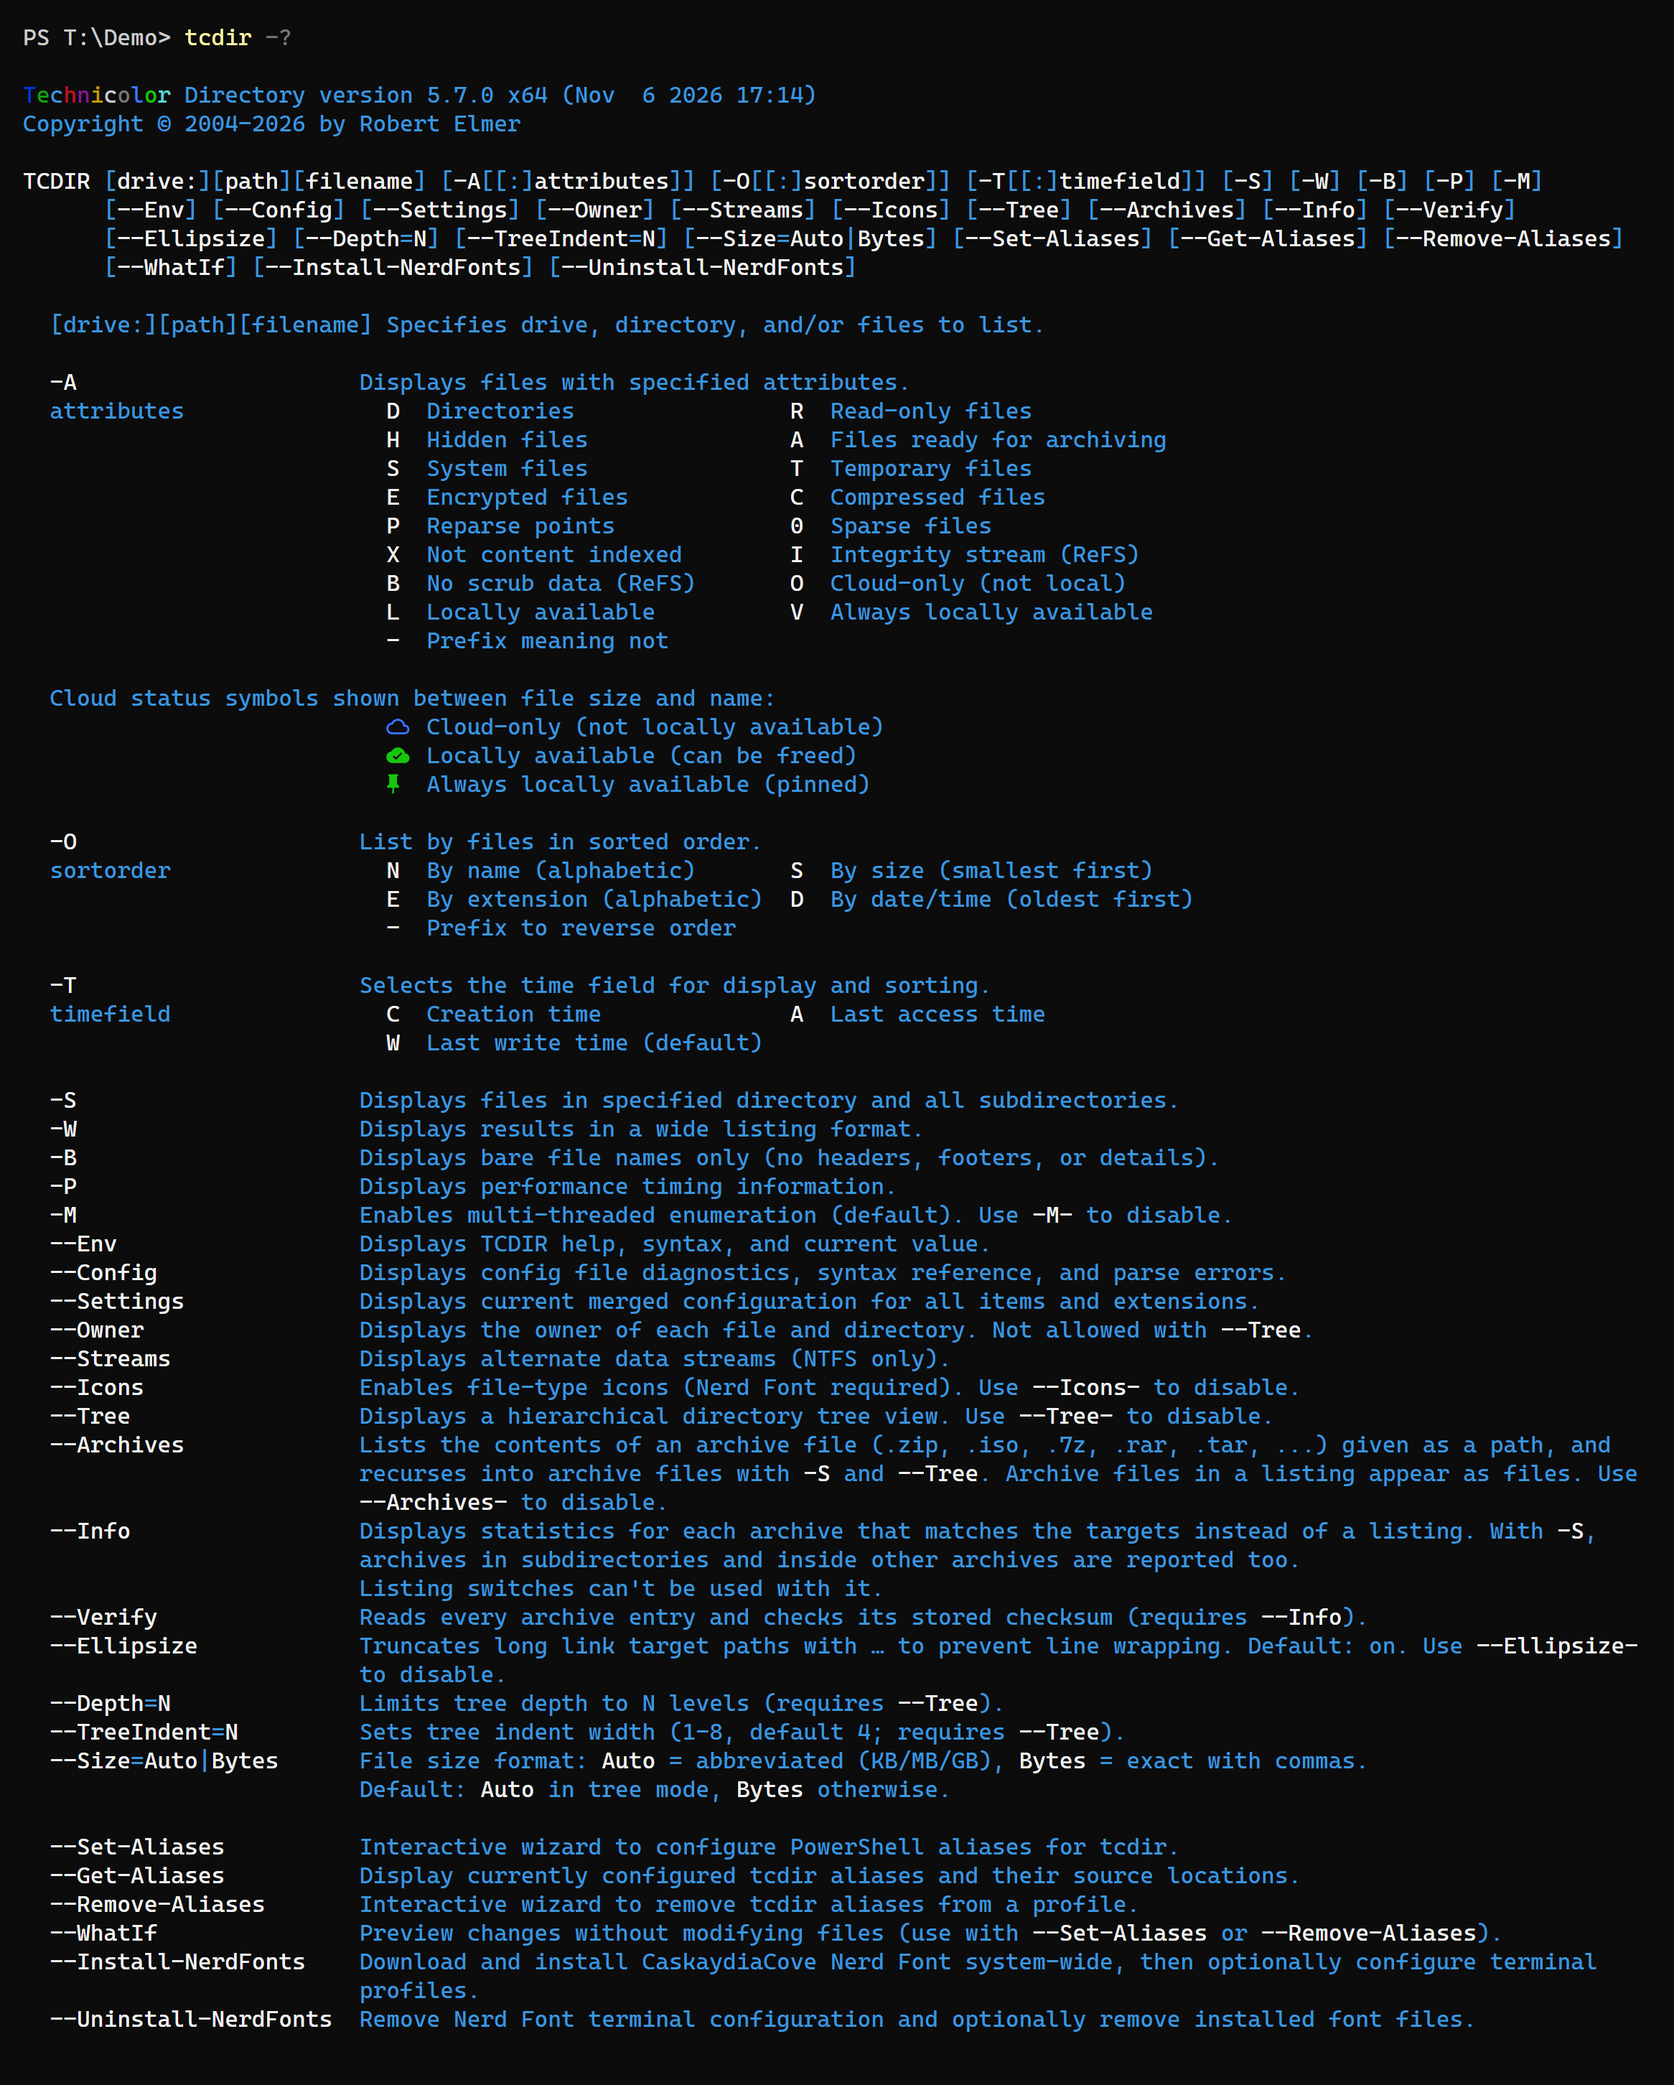
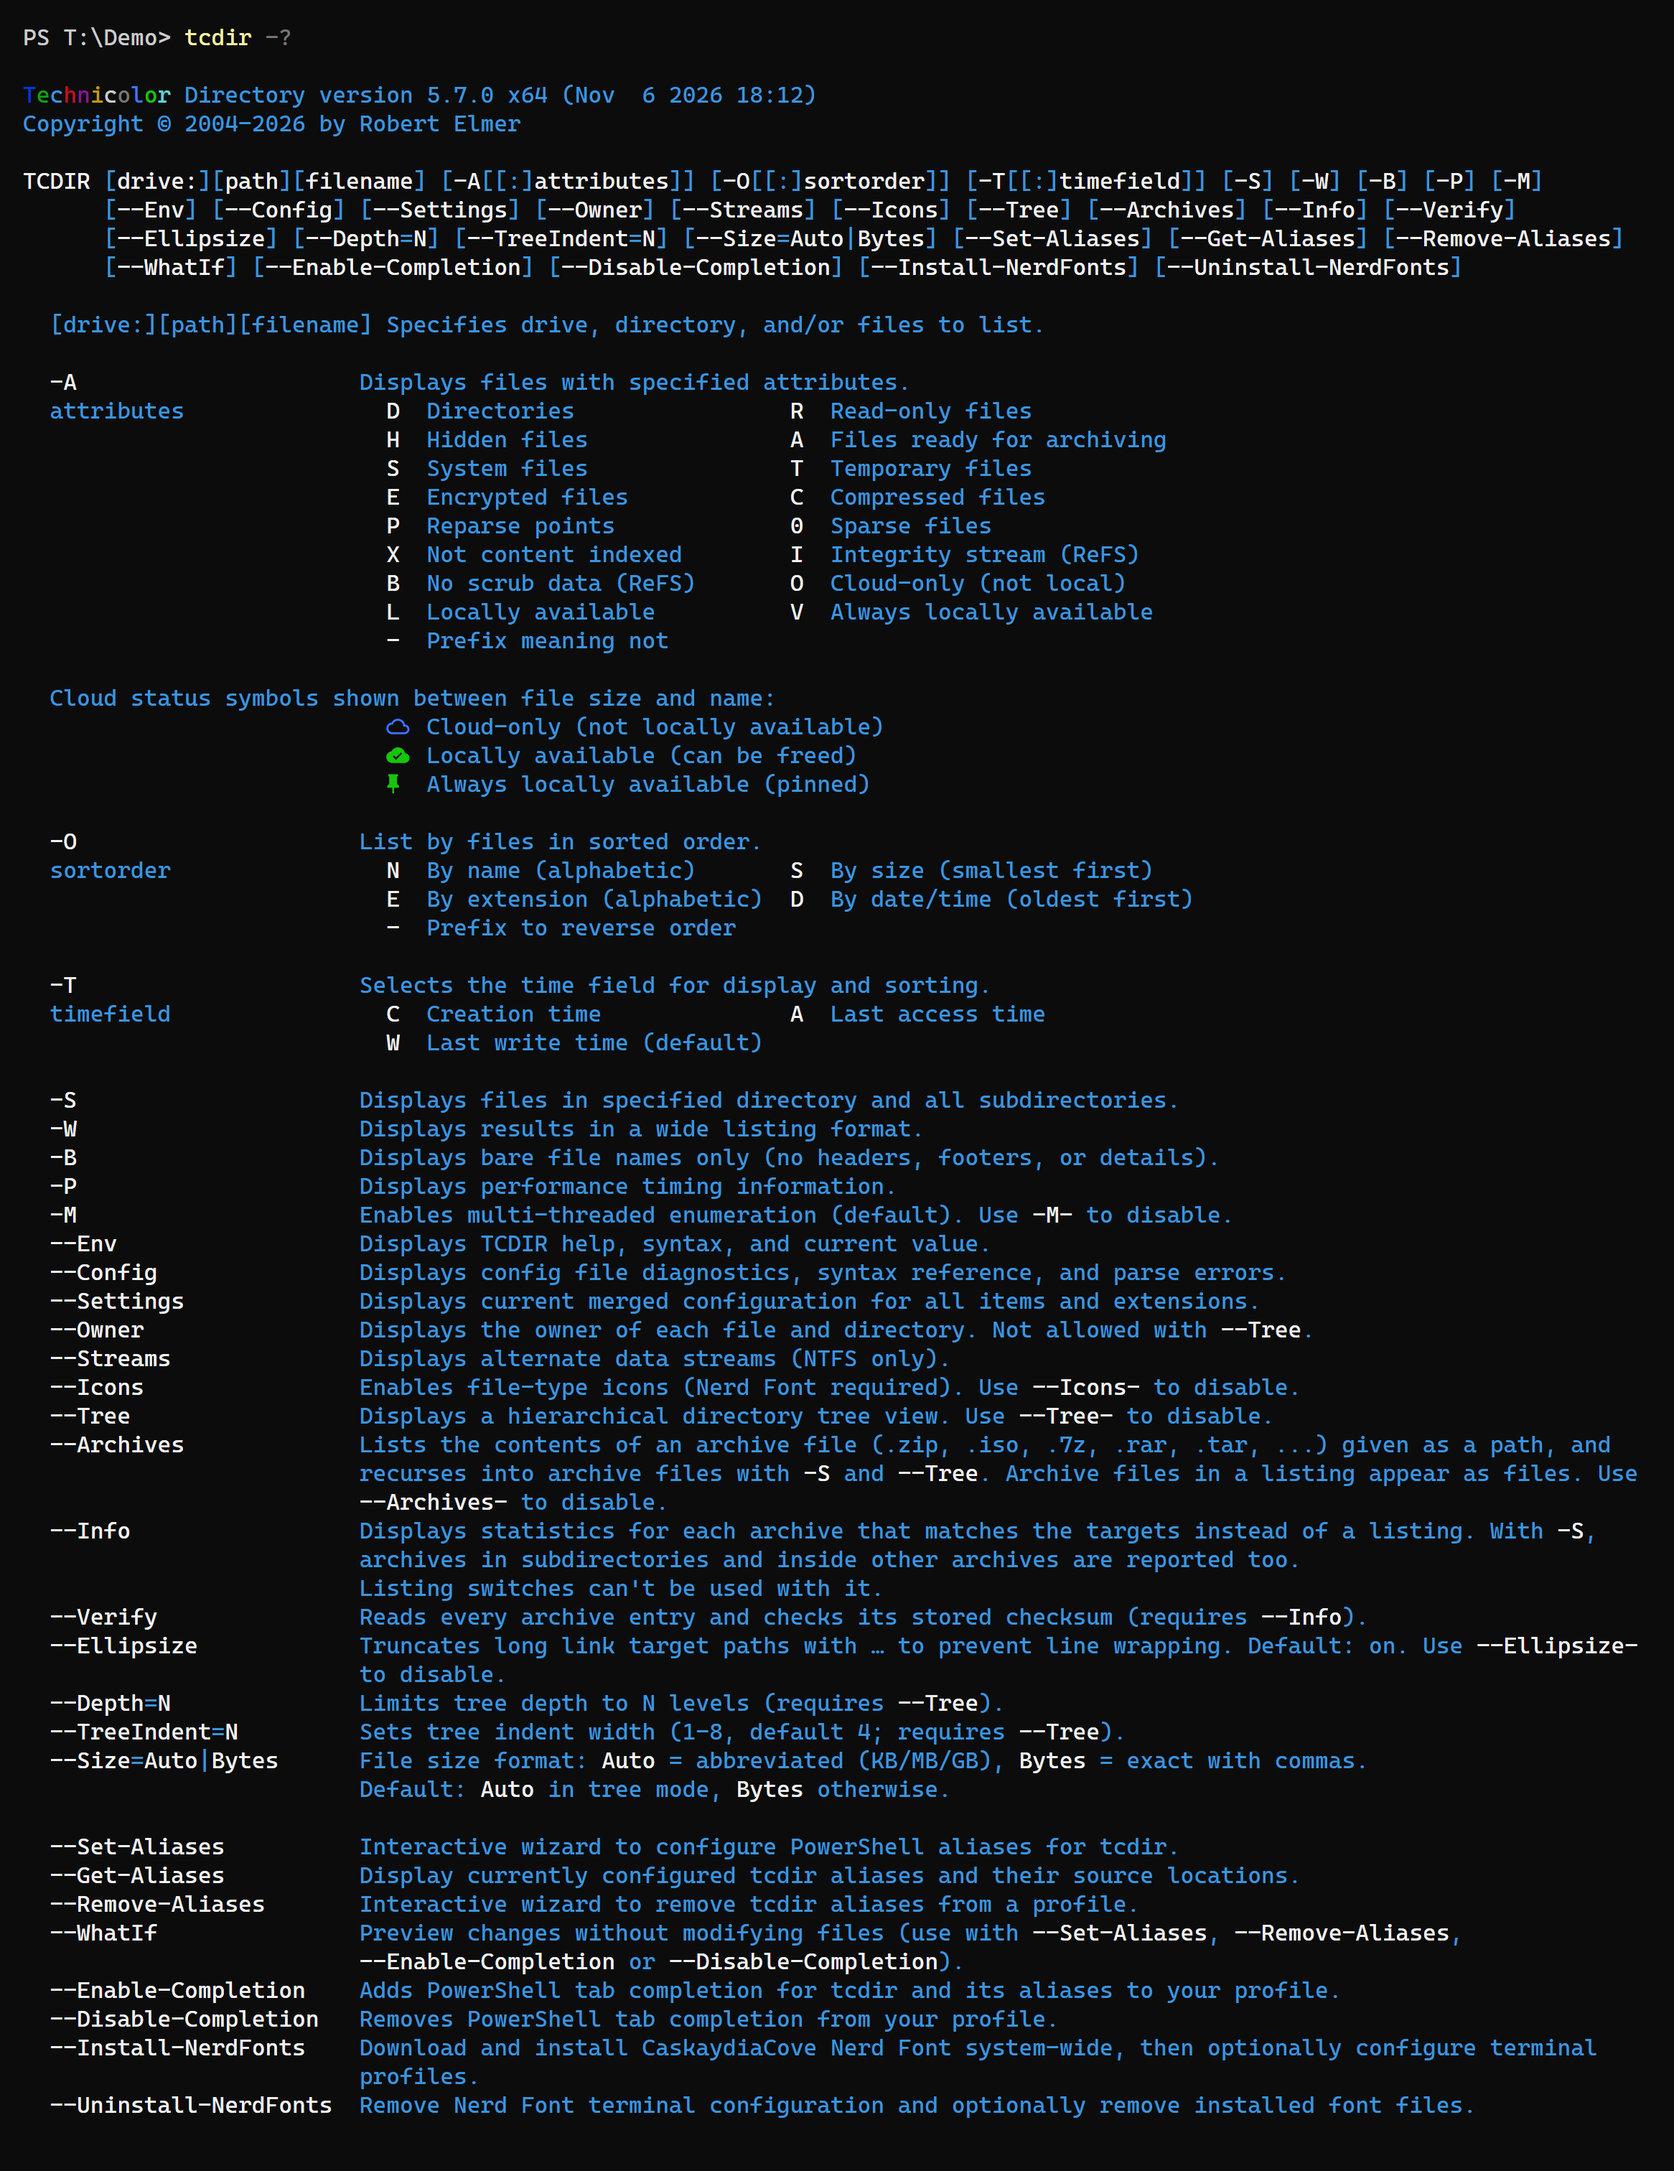
docs(completion): Document --whatif for the completion switches
Regenerate the Help screenshot for the completion switches. Remove the
screenshot script entry from the CHANGELOG.

diff --git a/README.md b/README.md
@@ -119,8 +119,9 @@ Both PowerShell 7+ (`pwsh`) and Windows PowerShell 5.1 (`powershell`) are suppor
 Run this from PowerShell to add tab completion for `tcdir` and your aliases to your profile:
 
 ```powershell
-tcdir --Enable-Completion     # add or update the completion block
-tcdir --Disable-Completion    # remove it; aliases stay
+tcdir --Enable-Completion           # add or update the completion block
+tcdir --Enable-Completion --whatif  # preview the block without writing
+tcdir --Disable-Completion          # remove it; aliases stay
 ```
 
 `--set-aliases` offers to enable completion as its last step, and regenerates the completion block when the aliases change. Completion works without aliases too.
@@ -197,7 +198,7 @@ Common switches:
 - `--Enable-Completion` / `--Disable-Completion`: add or remove PowerShell tab completion for tcdir and its aliases
 - `--get-aliases`: display all configured tcdir aliases and their source profiles
 - `--remove-aliases`: interactive removal of tcdir aliases from profile files
-- `--whatif`: dry-run modifier for `--set-aliases` or `--remove-aliases` (preview only, no file changes)
+- `--whatif`: dry-run modifier for `--set-aliases`, `--remove-aliases`, `--Enable-Completion` or `--Disable-Completion` (preview only, no file changes)
 - `--install-nerdfonts`: download and install CaskaydiaCove Nerd Font system-wide, then optionally configure terminal profiles
 - `--uninstall-nerdfonts`: remove Nerd Font terminal configuration and optionally remove the installed font files
 

diff --git a/CHANGELOG.md b/CHANGELOG.md
@@ -24,10 +24,10 @@ All notable changes to TCDir are documented in this file.
 - `--Verify`: with `--Info`, read every entry and check the checksums the archive stores; damaged entries fail the run
 - The date and time columns are blank for entries with no stored time (possible inside archives)
 - Redirected output wraps at the width in the `COLUMNS` environment variable when it is set (20 to 1000), and at 80 columns otherwise
-- `scripts\New-Screenshots.ps1` regenerates the README screenshots from a staged demo folder
 - PowerShell tab completion for switches and switch values, in PowerShell 7 and Windows PowerShell 5.1
   - `--Enable-Completion` adds a completion block to the profile for `tcdir` and every alias; `--Disable-Completion` removes it
   - `--set-aliases` offers to enable completion and regenerates the block when the aliases change; `--get-aliases` reports whether it is enabled
+  - `--whatif` with either switch prints the change without writing the profile
   - Each Tab press runs the installed tcdir to get candidates (`tcdir --Complete`), so new switches complete without a new setup step
   - Switches already on the command line, and switches that conflict with it, aren't offered
 
